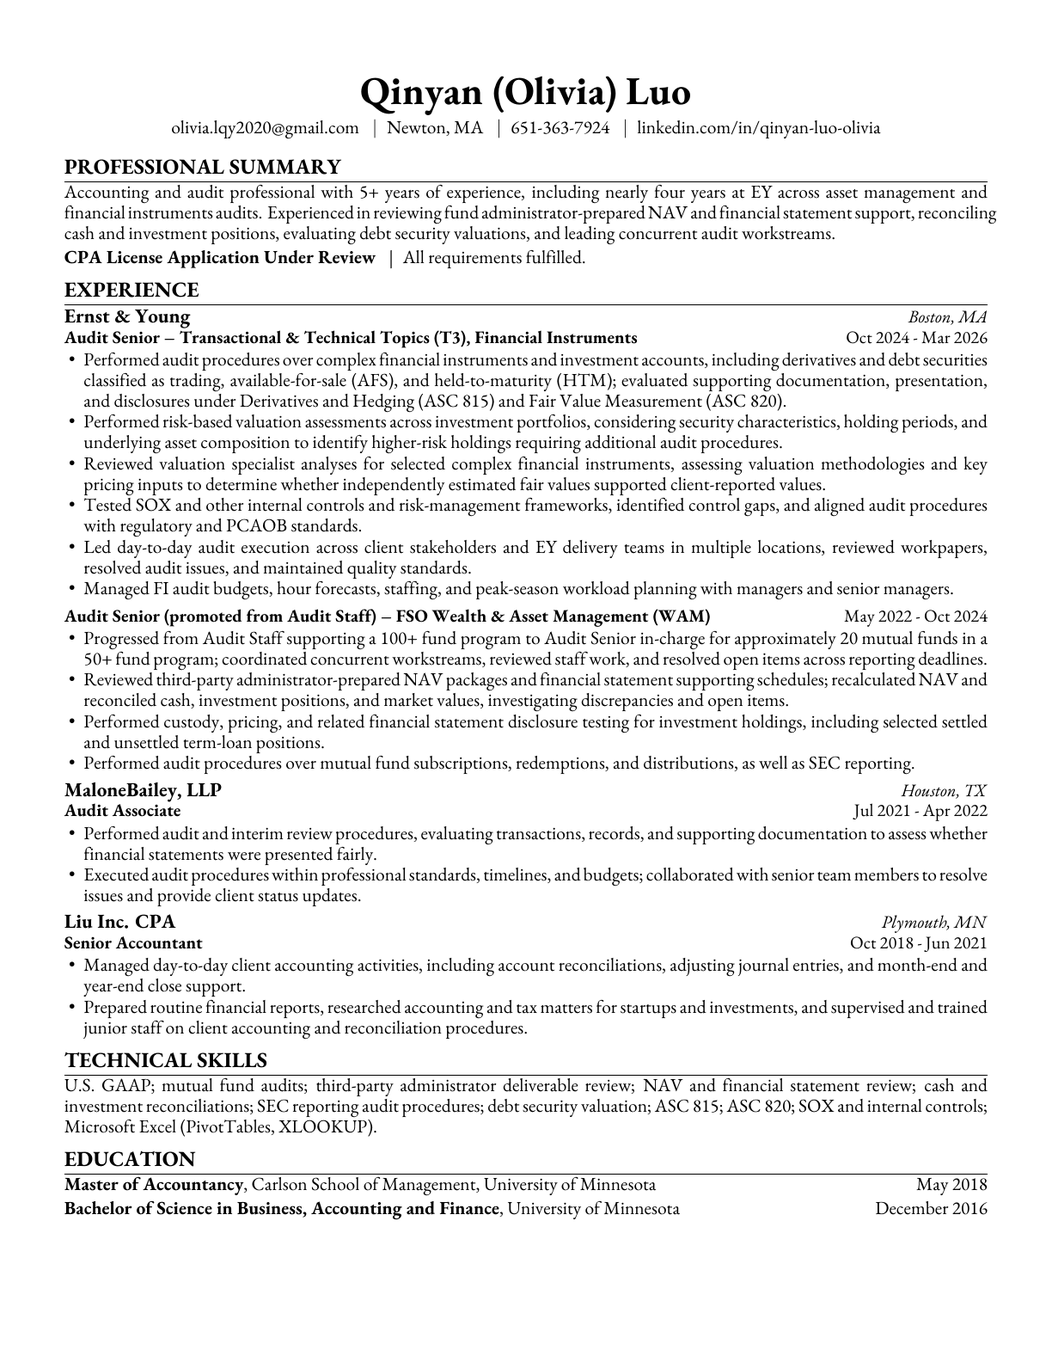
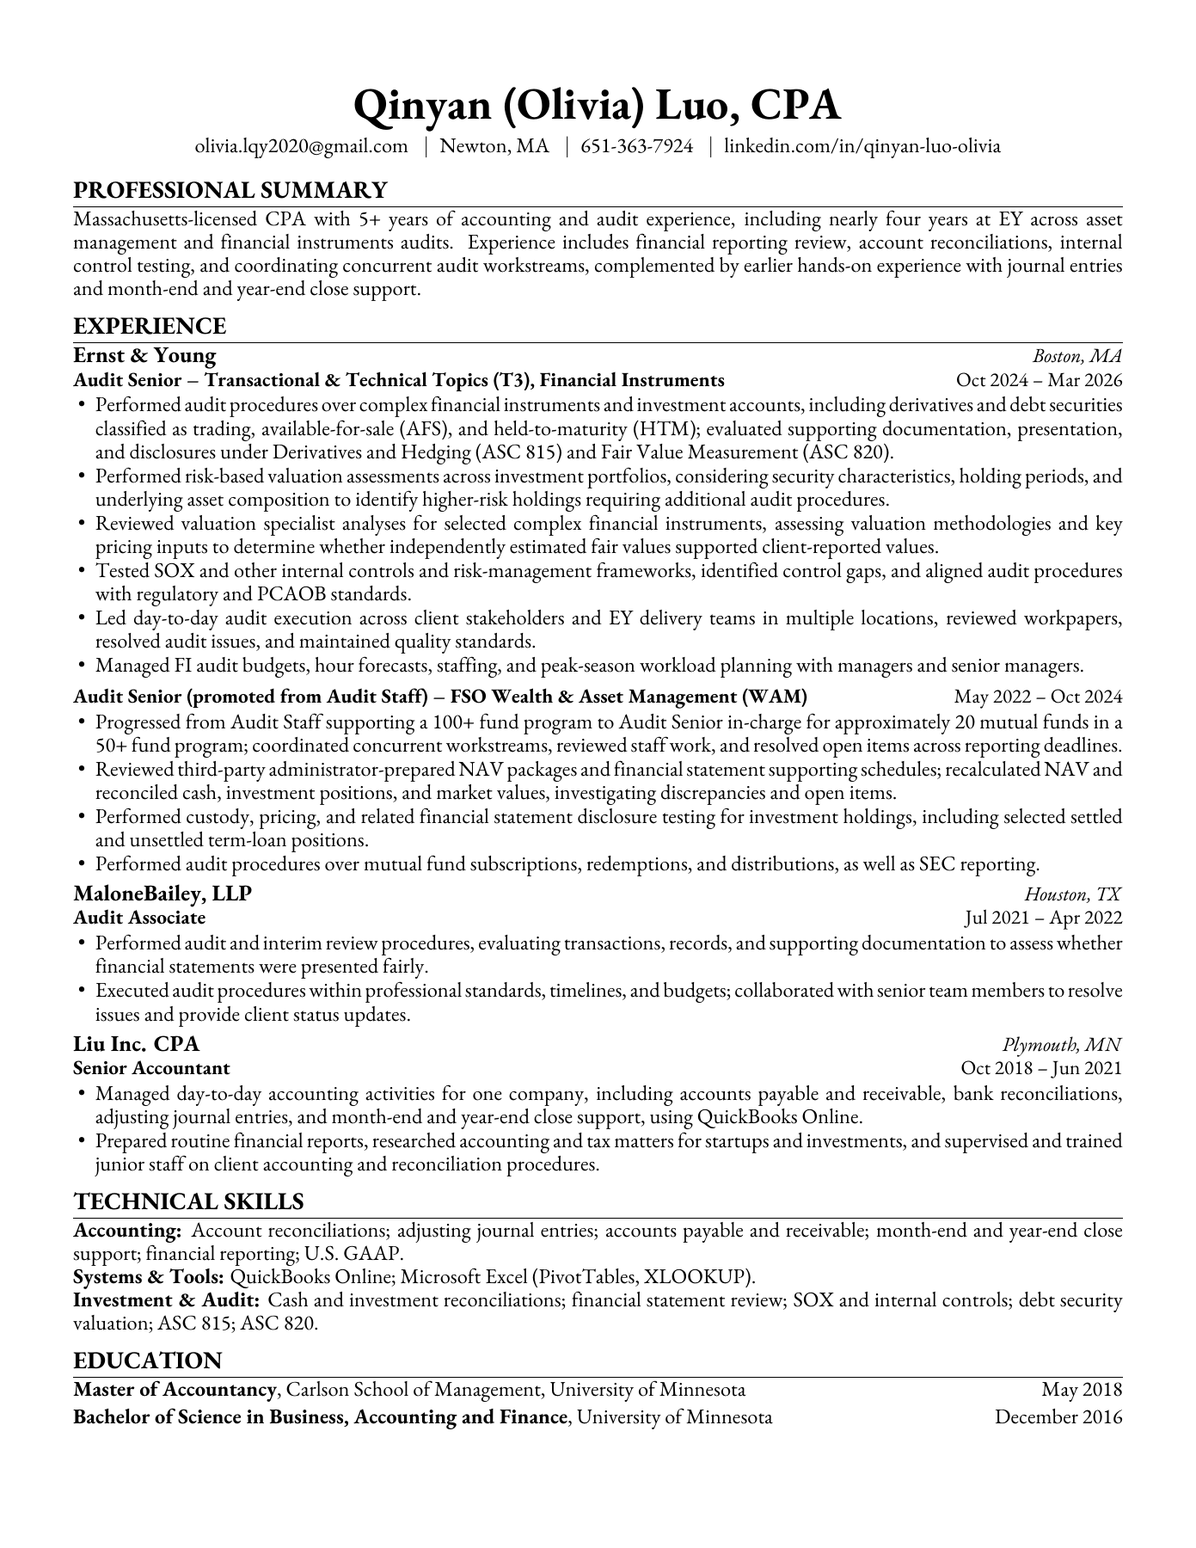
Update resume, bilingual profile, and redacted CPA certificate

Changed region(s): [[0.0621, 0.0309, 0.9624, 0.928]]

diff --git a/src/App.tsx b/src/App.tsx
@@ -6,8 +6,6 @@ import {
   CheckCircle2,
   ArrowRight,
   Code,
-  Database,
-  Heart,
   BookOpen,
   Globe2,
   Menu,
@@ -17,6 +15,7 @@ import {
   Music,
   FlaskConical,
   BriefcaseBusiness,
+  BadgeCheck,
 } from "lucide-react";
 
 const BostonMap = lazy(() => import("./BostonMap"));
@@ -54,8 +53,8 @@ export default function App() {
       heroTitle2: "Data Explorer.",
       heroSubtitle: "→ finding balance between audit rigor & analytical foresight",
       heroBody:
-        "I build financial frameworks that drive strategic business decisions. Currently transitioning 5+ years of complex audit and valuation experience into corporate finance, while building practical data and AI literacy through focused coursework.",
-      heroTags: ["Corporate Finance", "CPA Exams Passed", "I/ENFP-T", "Data Enthusiast", "Espresso Lover ☕", "Python Learner ✦"],
+        "I'm a Massachusetts-licensed CPA with 5+ years of accounting and audit experience, including nearly four years at EY across asset management and financial instruments. I'm bringing that experience into corporate accounting and finance, while continuing to build practical data and AI skills.",
+      heroTags: ["Corporate Finance", "Licensed CPA", "I/ENFP-T", "Data Enthusiast", "Espresso Lover ☕", "Python Learner ✦"],
       portraitBadge: "Boston light ✦",
       portraitCaption: "finance + data explorer",
       portraitCity: "Boston",
@@ -65,19 +64,20 @@ export default function App() {
       resumeSubtitle: "A polished PDF version of my 2026 resume is available here for quick review or download.",
       resumePreview: "Open Preview",
       resumeDownload: "Download PDF",
-      resumeBullets: ["5+ years across audit, valuation, and financial instruments", "CPA exams passed, with corporate accounting and FP&A interests", "Boston-based, open to hybrid and remote conversations"],
+      resumeBullets: ["Massachusetts-licensed CPA with 5+ years in accounting and audit", "Financial reporting, reconciliations, internal controls, and investment valuation", "Boston-based, open to hybrid and remote conversations"],
       aboutTitle: "A bit about me",
       about1:
-        "I'm a classically trained auditor — highly structured when the work calls for it, but curious and people-oriented in how I learn and collaborate. With 5+ years navigating complex financial instruments (ASC 815/820), I thrive on untangling messy data into clear narratives.",
+        "I'm a Massachusetts-licensed CPA with a foundation in both hands-on accounting and audit. Across 5+ years, I've worked on reconciliations, journal entries, close support, financial reporting review, and internal controls, with nearly four years at EY focused on asset management and financial instruments (ASC 815/820). I enjoy bringing structure to complex information and working with people to resolve the details.",
       about2:
-        "Outside work, I'm learning Python and data tools step by step, watching cooking videos at midnight, or hunting for the perfect micro-batch espresso in Boston. I'm also a classical music enthusiast; I played in school orchestras through high school and college, and I have a soft spot for Baroque, classical repertoire, and many other forms of music.",
+        "Outside work, I'm exploring AI and automation tools through small projects inspired by my gardening hobby and experimenting with vibe coding online. I'm also a classical music enthusiast; I played in school orchestras through high school and college, and I have a soft spot for Baroque, classical repertoire, and many other forms of music.",
       aboutTags: ["I/ENFP-T ✦", "Bilingual (ZH/EN)", "Data Modeling 📊", "Classical Music ♫", "Cooking 🍳"],
       currentTitle: "Currently into",
+      licenseTitle: "Licensed CPA · Massachusetts",
+      licenseCaption: "A milestone in my accounting journey · October 2026",
+      licenseAlt: "Qinyan Luo's framed Massachusetts CPA certificate",
       currentItems: [
-        "Passed the CPA exams and currently waiting for the State Board update.",
+        "Licensed as a CPA in Massachusetts, with a continued focus on accounting and financial reporting.",
         "Completed Claude 101 and LinkedIn’s Foundations of Treasury Management; currently reviewing ASC 820/815 and continuing through Claude’s broader course series.",
-        "Deep diving into Corporate FP&A best practices and strategic valuation.",
-        "Obsessing over new recipes & cooking technique videos.",
         "Planning to explore hiking routes starting from the New England area.",
         "Listening broadly to the Boston Symphony Orchestra and concerts from ensembles around the area.",
       ],
@@ -124,8 +124,8 @@ export default function App() {
       heroTitle2: "数据探索者",
       heroSubtitle: "→ 在审计的严谨性和数据分析的前瞻性之间寻找平衡",
       heroBody:
-        "我擅长把复杂的财务信息梳理成能支持业务决策的分析框架。现在希望把 5 年多的复杂审计与估值经验延展到企业会计、企业财务规划与分析和财务分析方向，同时继续补足数据与 AI 工具的实践能力。",
-      heroTags: ["企业财务", "CPA 考试已通过", "I/ENFP-T", "数据爱好者", "咖啡爱好者 ☕", "Python 学习中 ✦"],
+        "我持有马萨诸塞州注册会计师（CPA）执照，有 5 年以上会计与审计经验，其中近四年在安永从事资产管理和金融工具相关审计。现在希望将这些经验运用到企业会计与财务工作中，同时继续提升数据分析与 AI 工具的实践能力。",
+      heroTags: ["企业财务", "美国 CPA 持证", "I/ENFP-T", "数据爱好者", "咖啡爱好者 ☕", "Python 学习中 ✦"],
       portraitBadge: "",
       portraitCaption: "财务 + 数据探索者",
       portraitCity: "波士顿",
@@ -135,19 +135,20 @@ export default function App() {
       resumeSubtitle: "这里放的是 2026 版 PDF 简历，可以直接在线预览，也可以下载保存。",
       resumePreview: "打开预览",
       resumeDownload: "下载 PDF",
-      resumeBullets: ["5 年以上审计、估值和复杂金融工具相关经验", "已通过 CPA 考试，重点关注企业会计、企业财务规划与分析和财务分析方向", "目前在波士顿，欢迎远程或混合办公机会交流"],
+      resumeBullets: ["马萨诸塞州注册会计师，拥有 5 年以上会计与审计经验", "熟悉财务报告、账户核对、内部控制及投资估值", "目前在波士顿，欢迎远程或混合办公机会交流"],
       aboutTitle: "关于我",
       about1:
-        "我接受过扎实的审计训练，做事注重结构和细节；同时也很享受和人协作、一起把问题想清楚的过程。过去 5 年多，我主要接触复杂金融工具（ASC 815/820）、估值和投资组合相关审计，喜欢把杂乱的信息整理成清楚、有判断依据的财务叙事。",
+        "我持有马萨诸塞州注册会计师（CPA）执照，既有日常账务处理经验，也接受过扎实的审计训练。过去 5 年多，我的工作涵盖账户核对、会计分录、结账支持、财务报告复核和内部控制；其中近四年在安永，主要从事资产管理及金融工具相关审计（ASC 815/820）。我做事注重结构和细节，也很享受与人协作，把复杂问题逐一理清的过程。",
       about2:
-        "工作之外，我在一步步学习 Python 和数据工具；也会半夜看做饭视频，或者在波士顿寻找好喝的 espresso。我也是古典音乐发烧友，高中和大学都在学校交响乐团，尤其喜欢巴洛克音乐、古典音乐，也愿意探索各种音乐形式。",
+        "工作之外，我正在探索 AI 和自动化工具，围绕自己的园艺爱好做一些小项目，也会尝试用 vibe coding 实现一些线上小创意。我也是古典音乐发烧友，高中和大学都在学校交响乐团，尤其喜欢巴洛克音乐、古典音乐，也愿意探索各种音乐形式。",
       aboutTags: ["I/ENFP-T ✦", "中英双语", "数据建模 📊", "古典音乐 ♫", "做饭 🍳"],
       currentTitle: "最近在关注",
+      licenseTitle: "马萨诸塞州注册会计师",
+      licenseCaption: "会计职业路上的一个里程碑 · 2026年10月",
+      licenseAlt: "Qinyan Luo 的马萨诸塞州注册会计师执照照片",
       currentItems: [
-        "已通过 CPA 考试，目前在等待 State Board 的更新。",
+        "已取得马萨诸塞州注册会计师（CPA）执照，持续深耕会计与财务报告领域。",
         "已完成 Claude 101 和 LinkedIn 的 Foundations of Treasury Management；目前在继续复习 ASC 820/815，并持续学习 Claude 名下的一系列课程。",
-        "持续了解企业财务规划与分析的工作方式、预算预测逻辑和战略估值场景。",
-        "研究新的食谱和烹饪技巧视频。",
         "计划从北美新英格兰地区开始慢慢探索适合周末的徒步路线。",
         "目前在广泛听波士顿交响乐团，以及周边各种乐团的演出。",
       ],
@@ -201,44 +202,44 @@ export default function App() {
       location: "Boston, MA",
       locationZh: "波士顿，MA",
       highlights: [
-        "Specialized in audits of financial instruments, including pension-related investments and derivatives, ensuring compliance with ASC 815, ASC 820, and related technical guidance.",
-        "Tested internal controls and risk-management frameworks, identified control gaps, and aligned audit procedures with regulatory and PCAOB standards.",
-        "Provided assurance and technical insights to insurance, commercial banking, and technology clients, focusing on complex valuations and disclosures.",
-        "Mentored EY Global Delivery Services and Service Delivery Center colleagues across multiple locations, reviewed workpapers, and upheld quality standards.",
-        "Led budget tracking and hour forecasting for the FI audit team, partnering with managers and senior managers on staffing and workload planning.",
+        "Audited complex financial instruments and investment accounts, including derivatives and trading, available-for-sale (AFS), and held-to-maturity (HTM) debt securities; evaluated documentation, presentation, and disclosures under Derivatives and Hedging (ASC 815) and Fair Value Measurement (ASC 820).",
+        "Assessed valuation risk across investment portfolios, considering security characteristics, holding periods, and underlying assets to identify higher-risk holdings requiring additional audit procedures.",
+        "Reviewed valuation specialists' methodologies and key pricing inputs to assess whether independent fair value estimates supported client-reported values.",
+        "Tested SOX and other internal controls and risk-management frameworks, identified control gaps, and aligned audit procedures with regulatory and PCAOB standards.",
+        "Led day-to-day audit execution across clients and EY delivery teams in multiple locations, reviewed workpapers, resolved audit issues, and maintained quality standards.",
+        "Managed Financial Instruments team audit budgets, hour forecasts, staffing, and peak-season workload planning with managers and senior managers.",
       ],
       highlightsZh: [
-        "专注于金融工具审计，包括养老金相关投资和衍生品，确保符合 ASC 815、ASC 820 及相关技术指引。",
-        "测试内部控制和风险管理框架，识别控制缺口，并使审计程序与监管要求和 PCAOB 标准保持一致。",
-        "为保险、商业银行和科技行业客户提供鉴证和技术洞察，重点关注复杂估值和披露。",
-        "指导多个地区的 EY Global Delivery Services 和 Service Delivery Center 同事，复核底稿并把控质量标准。",
-        "负责金融衍生品组的预算跟踪和工时预测，并与经理及高级经理协作规划人员配置和工作量。",
+        "审计复杂金融工具及投资账户，涵盖衍生品，以及交易性、可供出售和持有至到期债务证券；依据《衍生工具与套期保值》（ASC 815）及《公允价值计量》（ASC 820）评估支持文件、报表列报和附注披露。",
+        "结合证券特征、持有期限和底层资产构成，评估投资组合的估值风险，识别需要追加审计程序的高风险持仓。",
+        "复核估值专家采用的方法和关键定价参数，判断独立估算的公允价值能否支持客户报告的估值。",
+        "测试《萨班斯—奥克斯利法案》（SOX）相关内控、其他内部控制及风险管理机制，识别控制缺口，并确保审计程序符合监管要求和美国公众公司会计监督委员会（PCAOB）标准。",
+        "协调客户及安永各地交付团队，推进日常审计工作、复核底稿并解决审计问题，把控项目质量。",
+        "与经理及高级经理共同管理金融衍生品组的审计预算、工时预测、人员配置和忙季工作安排。",
       ],
     },
     "ey-wam": {
       company: "Ernst & Young",
       companyZh: "安永",
       team: "FSO - Wealth & Asset Management",
-      role: "Audit Senior",
+      role: "Audit Senior (promoted from Audit Staff)",
       period: "May 2022 - Oct 2024",
-      teamZh: "FSO - 财富与资产管理",
-      roleZh: "高级审计师",
+      teamZh: "金融服务业务部 - 财富与资产管理",
+      roleZh: "高级审计师（由审计助理晋升）",
       periodZh: "2022年5月 - 2024年10月",
       location: "Boston, MA",
       locationZh: "波士顿，MA",
       highlights: [
-        "Led and executed audit fieldwork for multiple fund clients, ensuring compliance with financial reporting standards and regulatory requirements.",
-        "Reviewed and reperformed net asset value calculations and financial statement audit procedures for mutual funds, including reconciliations of cash, positions, and market values.",
-        "Managed fund audit workflows and documented findings, particularly in higher-risk areas, strengthening audit quality and delivery.",
-        "Maintained professional client relationships throughout fund audit engagements while balancing operational requirements with client needs.",
-        "Monitored fund-industry developments and leading practices, shared insights, and mentored junior staff on fund audit methodology and procedures.",
+        "Progressed from Audit Staff supporting a 100+ fund program to Audit Senior in-charge for approximately 20 mutual funds within a 50+ fund program; coordinated concurrent workstreams, reviewed staff work, and resolved open items across reporting deadlines.",
+        "Reviewed third-party administrator-prepared NAV packages and financial statement schedules; recalculated net asset value and reconciled cash, investment positions, and market values, investigating discrepancies and open items.",
+        "Tested custody, pricing, and related financial statement disclosures for investment holdings, including selected settled and unsettled term-loan positions.",
+        "Performed audit procedures over mutual fund subscriptions, redemptions, distributions, and SEC reporting.",
       ],
       highlightsZh: [
-        "带领并执行多个基金客户的审计现场工作，确保符合财务报告标准和监管要求。",
-        "复核并重新执行共同基金的净资产价值计算和财务报表审计程序，包括现金、持仓和市值的详细调节。",
-        "管理基金审计流程并记录审计发现，尤其关注较高风险领域，以提升审计质量和交付效果。",
-        "在基金审计项目中维护专业客户关系，在运营要求和客户需求之间保持平衡。",
-        "持续关注基金行业动态和领先实践，分享相关洞察，并指导初级员工掌握基金审计方法和程序。",
+        "从参与百余只基金项目的审计助理晋升为高级审计师，在涵盖 50 余只基金的项目中具体负责约 20 只共同基金；统筹并行任务、复核团队工作，并在各报告截止日前解决待办事项。",
+        "复核第三方基金行政管理机构编制的净资产值报表及财务报表明细，重新计算基金净资产值，核对现金、投资持仓和市值，并跟进差异及未结事项。",
+        "对投资持仓执行托管、定价和相关报表披露测试，涵盖部分已交割及未交割的定期贷款持仓。",
+        "对共同基金的申购、赎回、收益分配及美国证券交易委员会（SEC）申报执行审计程序。",
       ],
     },
     "malone-bailey": {
@@ -254,52 +255,44 @@ export default function App() {
       locationZh: "休斯顿，TX",
       highlights: [
         "Performed audit and interim review procedures, evaluating transactions, records, and supporting documentation to assess fair presentation of financial statements.",
-        "Executed audit procedures in accordance with firm methodology, professional standards, engagement timelines, and budgets.",
-        "Collaborated with senior team members to resolve audit issues and provided regular status updates.",
-        "Built and maintained effective client relationships to support successful engagements and client satisfaction.",
+        "Executed audit procedures within professional standards, timelines, and budgets; worked with senior team members to resolve issues and provide client status updates.",
       ],
       highlightsZh: [
         "执行审计和期中复核程序，评估交易、记录及支持性文件，以判断财务报表是否公允列报。",
-        "按照事务所方法论、专业准则、项目时间表和预算要求执行审计程序。",
-        "与高级团队成员协作解决审计问题，并定期更新项目进展。",
-        "建立并维护有效的客户关系，支持项目顺利完成并提升客户满意度。",
+        "在专业准则、项目时间表和预算要求内完成审计程序，与资深同事共同解决问题，并向客户更新进展。",
       ],
     },
     "jackson-hewitt": {
-      company: "Liu Inc.",
-      companyZh: "Liu Inc.",
-      team: "Liu Inc.",
+      company: "Liu Inc. CPA",
+      companyZh: "Liu Inc. CPA",
+      team: "Liu Inc. CPA",
       role: "Senior Accountant",
       period: "Oct 2018 - June 2021",
-      teamZh: "Liu Inc.",
+      teamZh: "Liu Inc. CPA",
       roleZh: "高级会计师",
       periodZh: "2018年10月 - 2021年6月",
       location: "Plymouth, MN",
       locationZh: "普利茅斯，MN",
       highlights: [
-        "Managed daily accounting operations, account reconciliations, and financial reporting in accordance with U.S. GAAP.",
-        "Led year-end close processes, including balance sheet reconciliations and adjusting journal entries.",
-        "Supervised and trained new staff, delegated assignments, and monitored adherence to established procedures.",
-        "Conducted ad hoc financial analyses, researched tax treatments for startups and investments, and supported COVID-19 relief program applications.",
+        "Managed day-to-day accounting for one company using QuickBooks Online, including accounts payable and receivable, bank reconciliations, adjusting journal entries, and month-end and year-end close support.",
+        "Prepared routine financial reports, researched accounting and tax matters for startups and investments, and supervised and trained junior staff on client accounting and reconciliation procedures.",
       ],
       highlightsZh: [
-        "负责日常会计运营、账户调节和财务报告，并确保符合 U.S. GAAP 要求。",
-        "主导年终关账流程，包括资产负债表调节和调整分录。",
-        "监督并培训新员工，分配工作任务，并跟进既定流程的执行情况。",
-        "开展临时财务分析，研究初创企业和投资相关税务处理，并支持 COVID-19 救助项目申请。",
+        "使用 QuickBooks Online 负责一家公司的日常账务，涵盖应付与应收账款、银行对账、调整分录，以及月末和年末结账支持。",
+        "编制日常财务报告，研究初创企业及投资相关的会计与税务问题，并指导、培训初级员工处理客户账务和账户核对工作。",
       ],
     },
   };
 
-  const currentIcons = [BookOpen, Code, Database, Heart, Globe2, Music];
+  const currentIcons = [BookOpen, Code, Globe2, Music];
   const activeExperience = experienceData[activeExp as keyof typeof experienceData];
   const expCompany = isZh ? activeExperience.companyZh : activeExperience.company;
   const expRole = isZh ? activeExperience.roleZh : activeExperience.role;
   const expTeam = isZh ? activeExperience.teamZh : activeExperience.team;
   const expHighlights = isZh ? activeExperience.highlightsZh : activeExperience.highlights;
   const expLocation = isZh ? activeExperience.locationZh : activeExperience.location;
-  const resumeUrl = `${import.meta.env.BASE_URL}Olivia-Resume.pdf`;
-  const resumePreviewUrl = `${import.meta.env.BASE_URL}resume-preview/olivia-resume.png`;
+  const resumeUrl = `${import.meta.env.BASE_URL}Olivia-Resume.pdf?v=20261022`;
+  const resumePreviewUrl = `${import.meta.env.BASE_URL}resume-preview/olivia-resume.png?v=20261022`;
 
   return (
     <div className="min-h-screen bg-[#F9F6F0] text-[#332D2D] font-sans antialiased selection:bg-[#EAE5DE] selection:text-[#9C5A6A] overflow-x-hidden">
@@ -404,7 +397,7 @@ export default function App() {
           </div>
         </div>
 
-        <div id="about" className="grid grid-cols-1 md:grid-cols-2 gap-6 mb-24">
+        <div id="about" className="grid grid-cols-1 md:grid-cols-2 items-start gap-6 mb-24">
           <div className="bg-white border border-[#EAE5DE] rounded-[32px] p-8 md:p-10 shadow-[0_2px_10px_rgba(0,0,0,0.02)]">
             <h3 className="font-serif-elegant text-2xl text-[#332D2D] mb-6 flex items-center gap-2"><span className="text-[#9C5A6A] font-sans text-lg">↳</span> {text.aboutTitle}</h3>
             <p className="text-[14px] text-[#5A504E] leading-[1.8] mb-6">{text.about1}</p>
@@ -429,6 +422,23 @@ export default function App() {
                 );
               })}
             </ul>
+            <figure className="mt-7 border-t border-[#EAE5DE] pt-6">
+              <img
+                src={`${import.meta.env.BASE_URL}cpa-certificate.jpg`}
+                alt={text.licenseAlt}
+                width={1200}
+                height={1033}
+                loading="lazy"
+                className="block w-full max-w-[360px] mx-auto h-auto rounded-lg"
+              />
+              <figcaption className="mt-4 flex items-start gap-2.5">
+                <BadgeCheck className="w-5 h-5 text-[#9C5A6A] shrink-0 mt-0.5" />
+                <div>
+                  <p className="text-[13px] font-medium text-[#5A504E]">{text.licenseTitle}</p>
+                  <p className="mt-1 text-[11px] leading-relaxed text-[#A09596]">{text.licenseCaption}</p>
+                </div>
+              </figcaption>
+            </figure>
           </div>
         </div>
 
